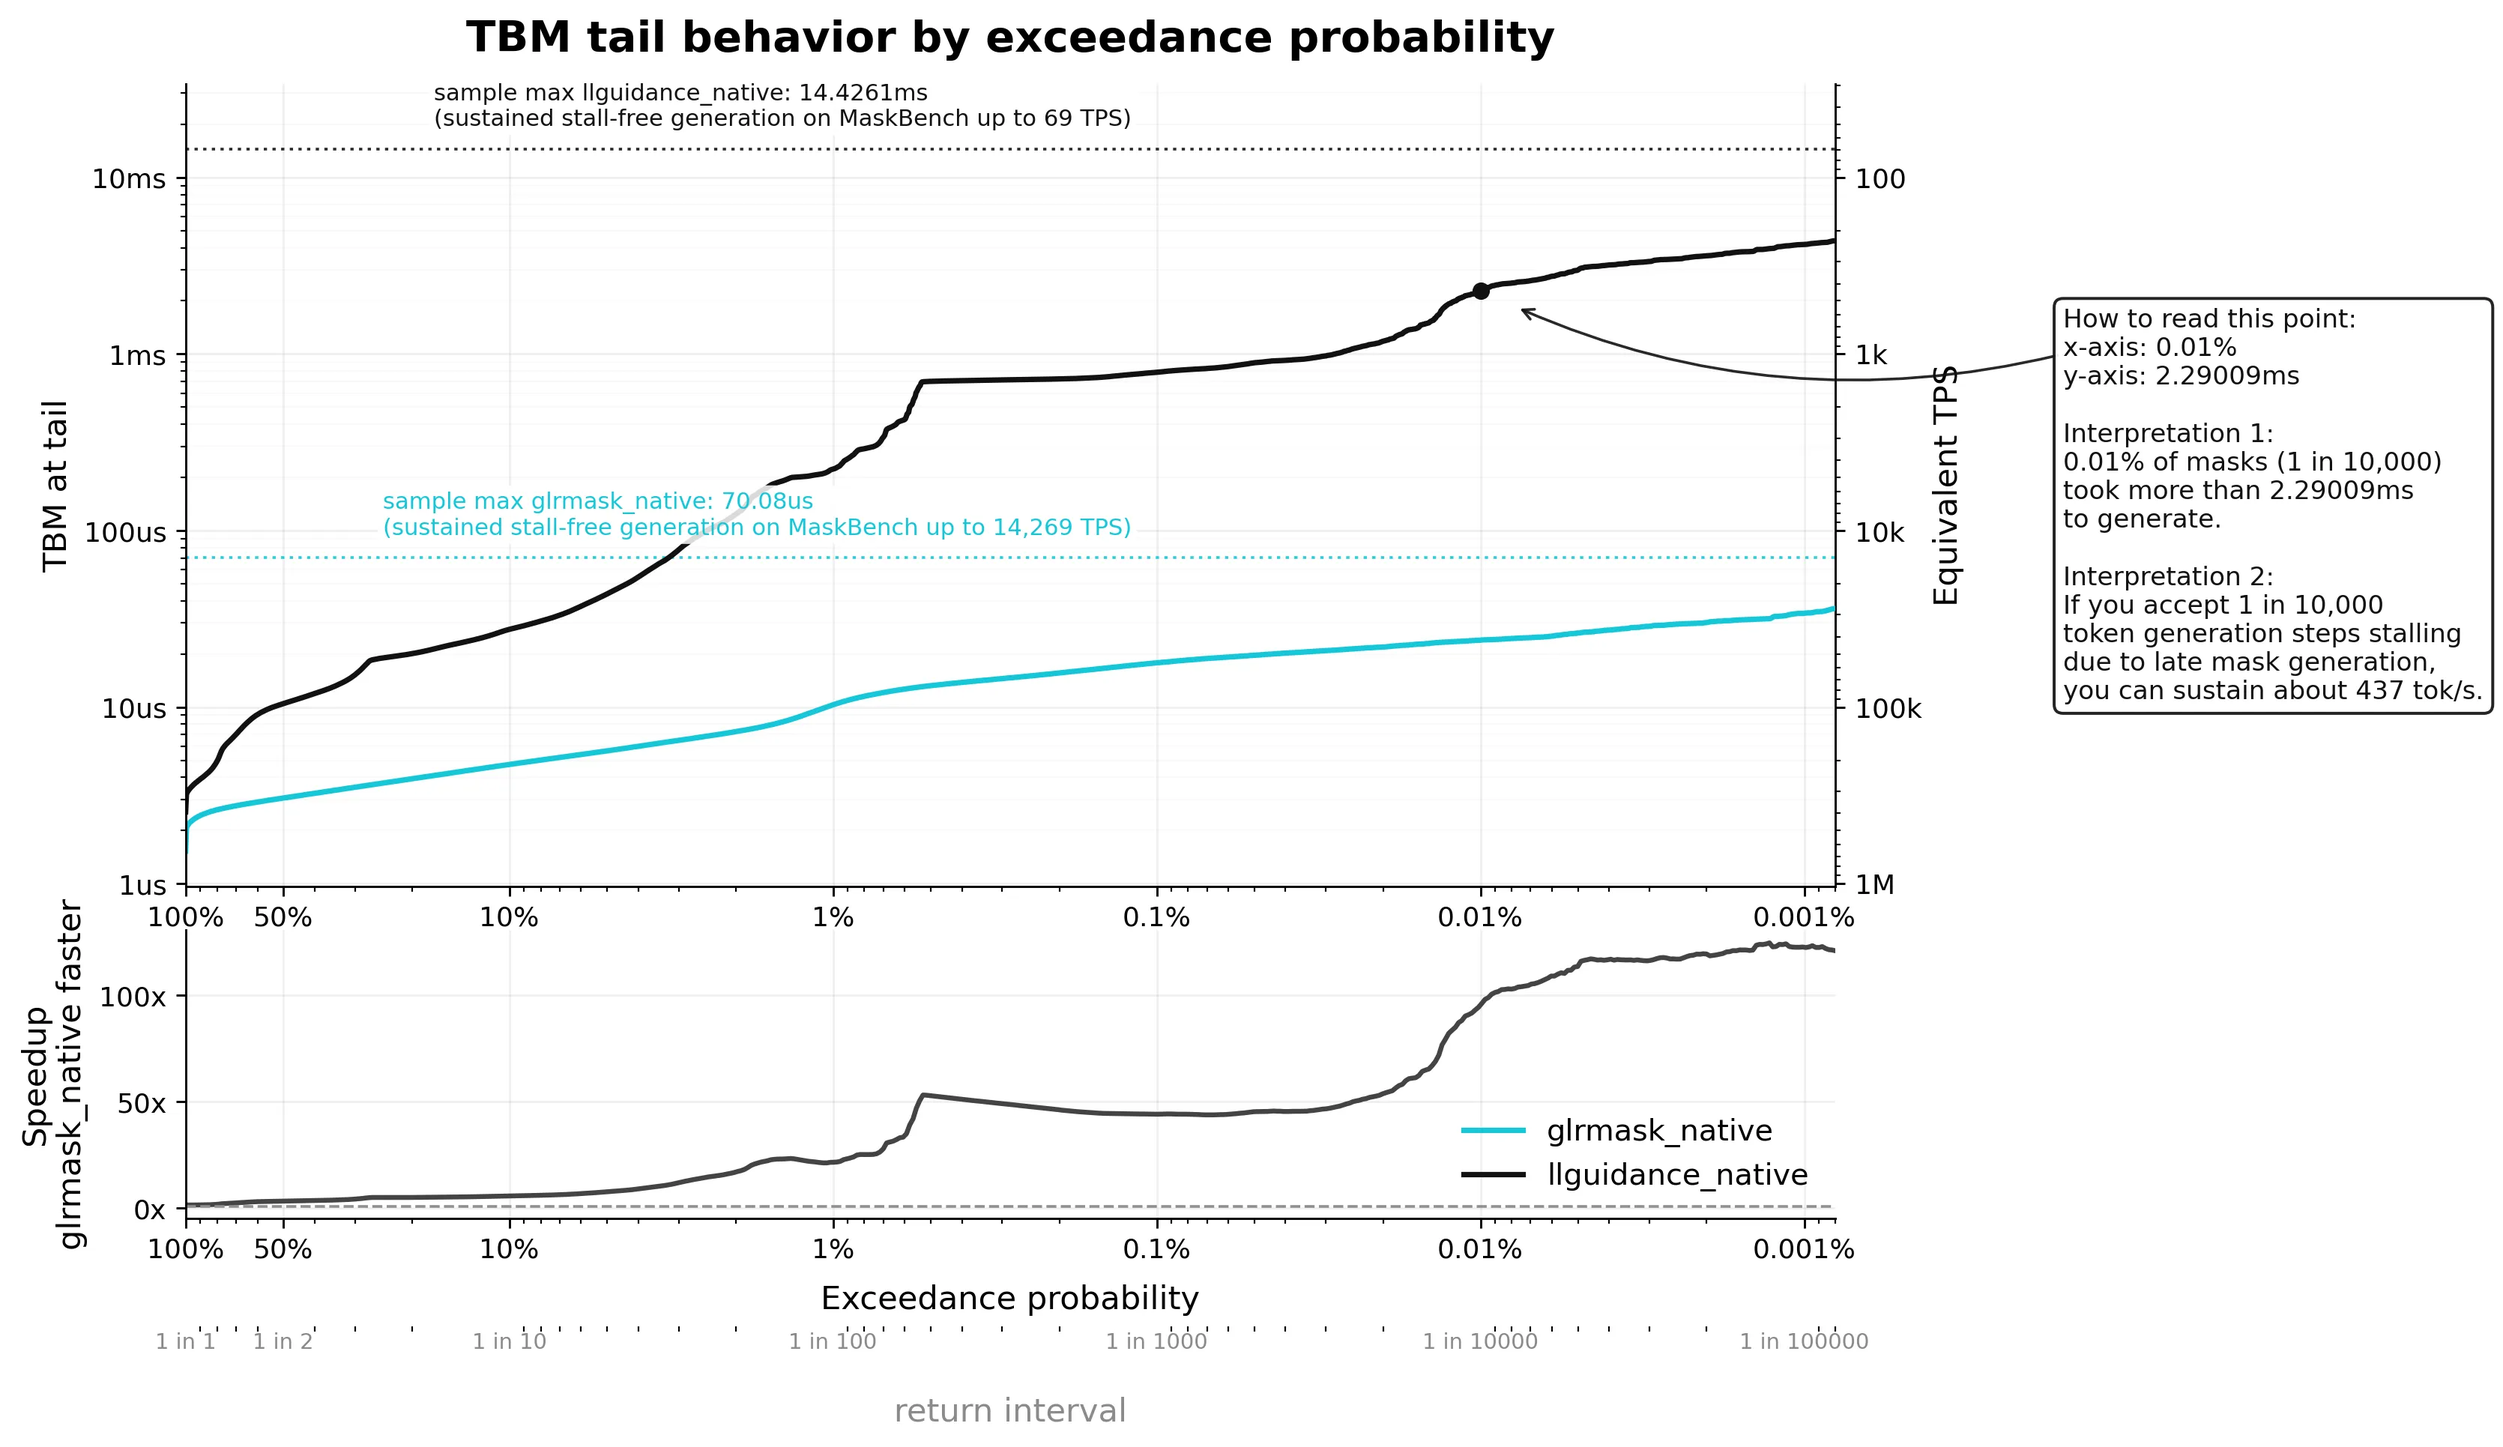
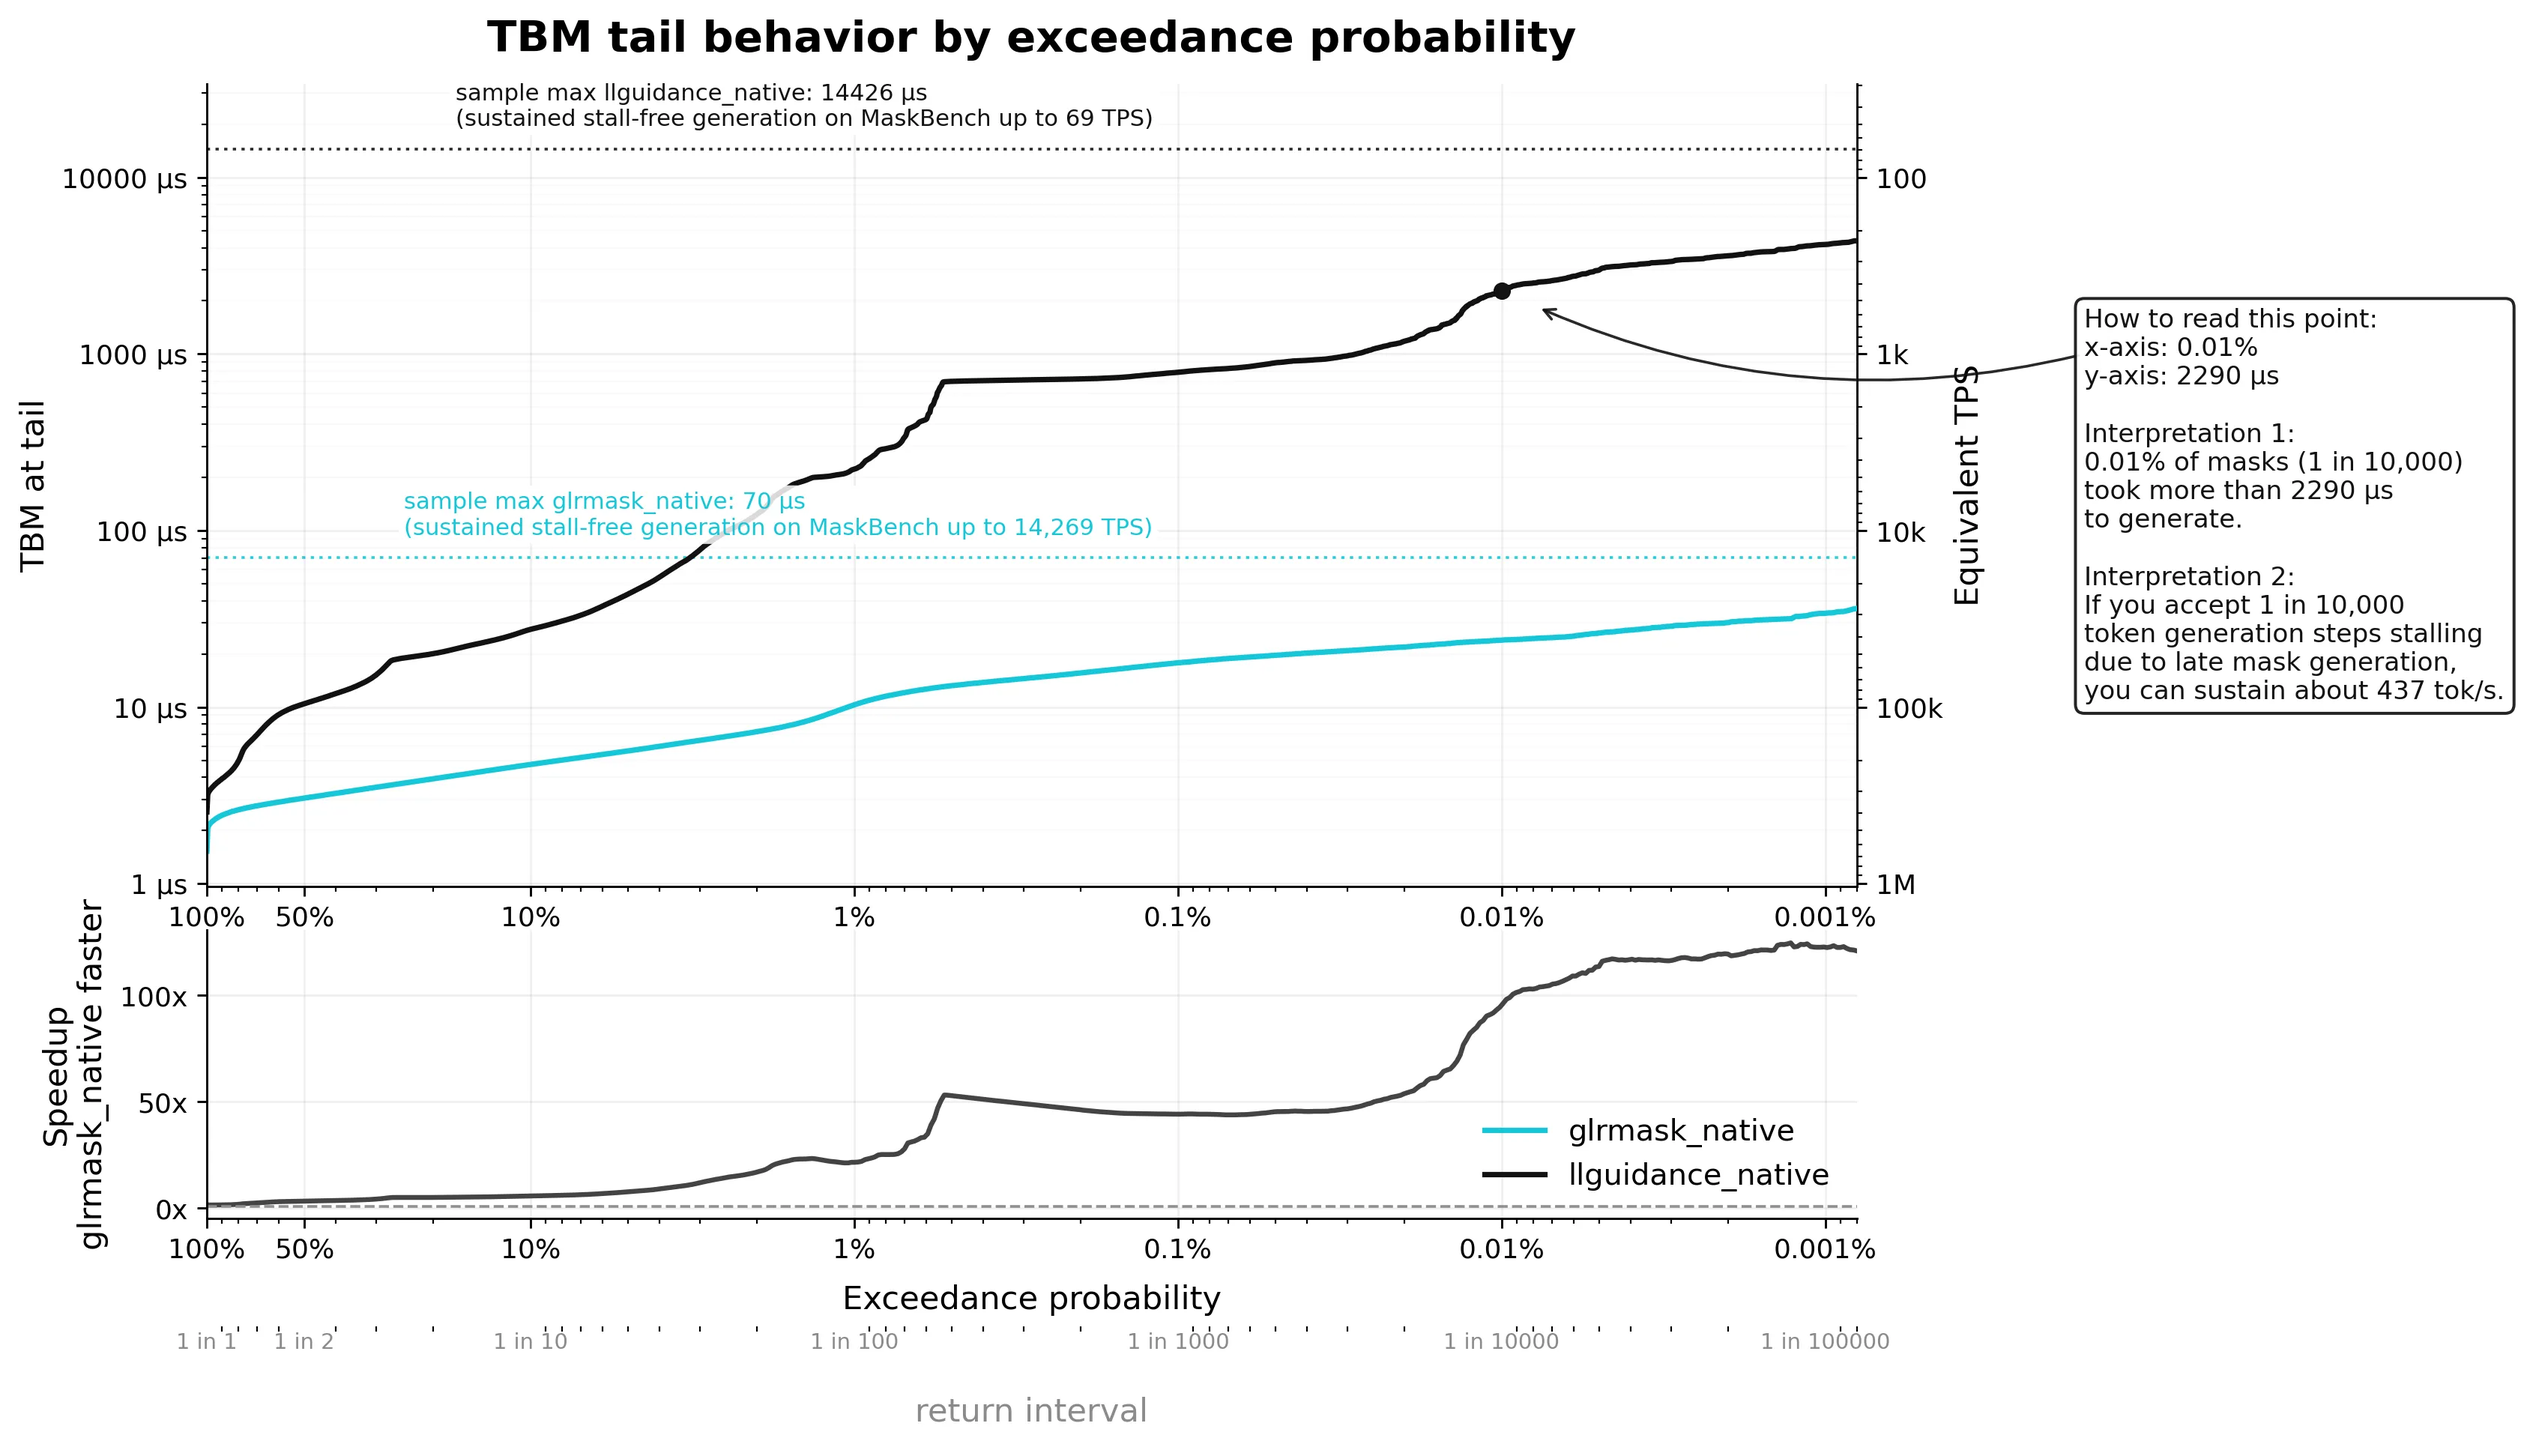
Standardize benchmark timings in microseconds

diff --git a/docs/benchmark-cfa-full-2026-08-20.md b/docs/benchmark-cfa-full-2026-08-20.md
@@ -52,14 +52,14 @@ Microseconds. TBM is the old CFA metric: measured mask time plus commit time for
 
 | TBM | GLRMask | llguidance |
 |---|---:|---:|
-| mean | **3.448 µs** | 21.168 µs |
-| p50 | **3.051 µs** | 10.451 µs |
-| p90 | **4.730 µs** | 27.578 µs |
-| p95 | **5.650 µs** | 43.640 µs |
-| p99 | **10.310 µs** | 222.980 µs |
-| p99.9 | **17.820 µs** | 787.850 µs |
-| p99.99 | **23.943 µs** | 2.290 ms |
-| maximum | **70.080 µs** | 14.426 ms |
+| mean | **3 µs** | 21 µs |
+| p50 | **3 µs** | 10 µs |
+| p90 | **5 µs** | 28 µs |
+| p95 | **6 µs** | 44 µs |
+| p99 | **10 µs** | 223 µs |
+| p99.9 | **18 µs** | 788 µs |
+| p99.99 | **24 µs** | 2,290 µs |
+| maximum | **70 µs** | 14,426 µs |
 
 Measured TBM sample counts:
 
@@ -68,7 +68,7 @@ GLRMask:     3,066,674
 llguidance:  3,068,495
 ```
 
-GLRMask had five samples at or above 50 µs and **zero at or above 75 µs**. llguidance had 17,787 samples at or above 500 µs, 864 at or above 1 ms, 366 at or above 2 ms, and 17 at or above 5 ms.
+GLRMask had five samples at or above 50 µs and **zero at or above 75 µs**. llguidance had 17,787 samples at or above 500 µs, 864 at or above 1,000 µs, 366 at or above 2,000 µs, and 17 at or above 5,000 µs.
 
 The reciprocal of mean constraint-only TBM is approximately 290,062 transitions/s for GLRMask and 47,242 transitions/s for llguidance. This is not end-to-end model throughput; it is only a convenient reciprocal service-time quantity.
 
@@ -78,23 +78,23 @@ TTFM:
 
 | TTFM | GLRMask | llguidance |
 |---|---:|---:|
-| mean | 25.737 ms | **1.652 ms** |
-| p50 | 10.421 ms | **1.109 ms** |
-| p90 | 59.350 ms | **2.738 ms** |
-| p95 | 102.590 ms | **3.909 ms** |
-| p99 | 229.809 ms | **12.023 ms** |
-| p99.9 | 674.319 ms | **36.839 ms** |
-| maximum | 779.588 ms | **81.104 ms** |
+| mean | 25,737 µs | **1,652 µs** |
+| p50 | 10,421 µs | **1,109 µs** |
+| p90 | 59,350 µs | **2,738 µs** |
+| p95 | 102,590 µs | **3,909 µs** |
+| p99 | 229,809 µs | **12,023 µs** |
+| p99.9 | 674,319 µs | **36,839 µs** |
+| maximum | 779,588 µs | **81,104 µs** |
 
 Constraint build time itself is nearly identical to TTFM in this old CFA run:
 
 | Build | GLRMask | llguidance |
 |---|---:|---:|
-| p50 | 10.417 ms | **1.062 ms** |
-| p90 | 59.346 ms | **2.715 ms** |
-| p99 | 229.809 ms | **11.946 ms** |
-| p99.9 | 674.317 ms | **36.832 ms** |
-| maximum | 779.586 ms | **81.104 ms** |
+| p50 | 10,417 µs | **1,062 µs** |
+| p90 | 59,346 µs | **2,715 µs** |
+| p99 | 229,809 µs | **11,946 µs** |
+| p99.9 | 674,317 µs | **36,832 µs** |
+| maximum | 779,586 µs | **81,104 µs** |
 
 The static GLRMask design is deliberately trading substantially more up-front compilation for a much smaller runtime tail.
 
@@ -108,7 +108,7 @@ Among the 7,970 paired runtime problems:
 | any TBM ≥ 100 µs | 0 | 6,906 / 7,970 (86.6499%) |
 | any TBM ≥ 200 µs | 0 | 1,952 / 7,970 (24.4918%) |
 | any TBM ≥ 500 µs | 0 | 855 / 7,970 (10.7277%) |
-| any TBM ≥ 1 ms | 0 | 142 / 7,970 (1.7817%) |
+| any TBM ≥ 1,000 µs | 0 | 142 / 7,970 (1.7817%) |
 
 ## Interpretation limits
 

diff --git a/GUIDE.md b/GUIDE.md
@@ -201,11 +201,11 @@ Latest corrected engineering result: the **9,558 official JSONSchemaBench schema
 
 | TBM | GLRMask | LLGuidance |
 |---|---:|---:|
-| p50 | **3.051 µs** | 10.451 µs |
-| p99 | **10.310 µs** | 222.980 µs |
-| p99.9 | **17.820 µs** | 787.850 µs |
-| p99.99 | **23.943 µs** | 2.290 ms |
-| maximum | **70.080 µs** | 14.426 ms |
+| p50 | **3 µs** | 10 µs |
+| p99 | **10 µs** | 223 µs |
+| p99.9 | **18 µs** | 788 µs |
+| p99.99 | **24 µs** | 2,290 µs |
+| maximum | **70 µs** | 14,426 µs |
 
 <p align="center">
   <img src="https://raw.githubusercontent.com/IsaacBreen/glrmask/main/docs/assets/benchmark-tbm-2026-08-20.webp" alt="TBM latency comparison for GLRMask and LLGuidance in the corrected 20 August 2026 engineering run" width="100%">

diff --git a/README.md b/README.md
@@ -205,11 +205,11 @@ Latest corrected engineering result: the **9,558 official JSONSchemaBench schema
 
 | TBM | GLRMask | LLGuidance |
 |---|---:|---:|
-| p50 | **3.051 µs** | 10.451 µs |
-| p99 | **10.310 µs** | 222.980 µs |
-| p99.9 | **17.820 µs** | 787.850 µs |
-| p99.99 | **23.943 µs** | 2.290 ms |
-| maximum | **70.080 µs** | 14.426 ms |
+| p50 | **3 µs** | 10 µs |
+| p99 | **10 µs** | 223 µs |
+| p99.9 | **18 µs** | 788 µs |
+| p99.99 | **24 µs** | 2,290 µs |
+| maximum | **70 µs** | 14,426 µs |
 
 <p align="center">
   <img src="https://raw.githubusercontent.com/IsaacBreen/glrmask/main/docs/assets/benchmark-tbm-2026-08-20.webp" alt="TBM latency comparison for GLRMask and LLGuidance in the corrected 20 August 2026 engineering run" width="100%">
